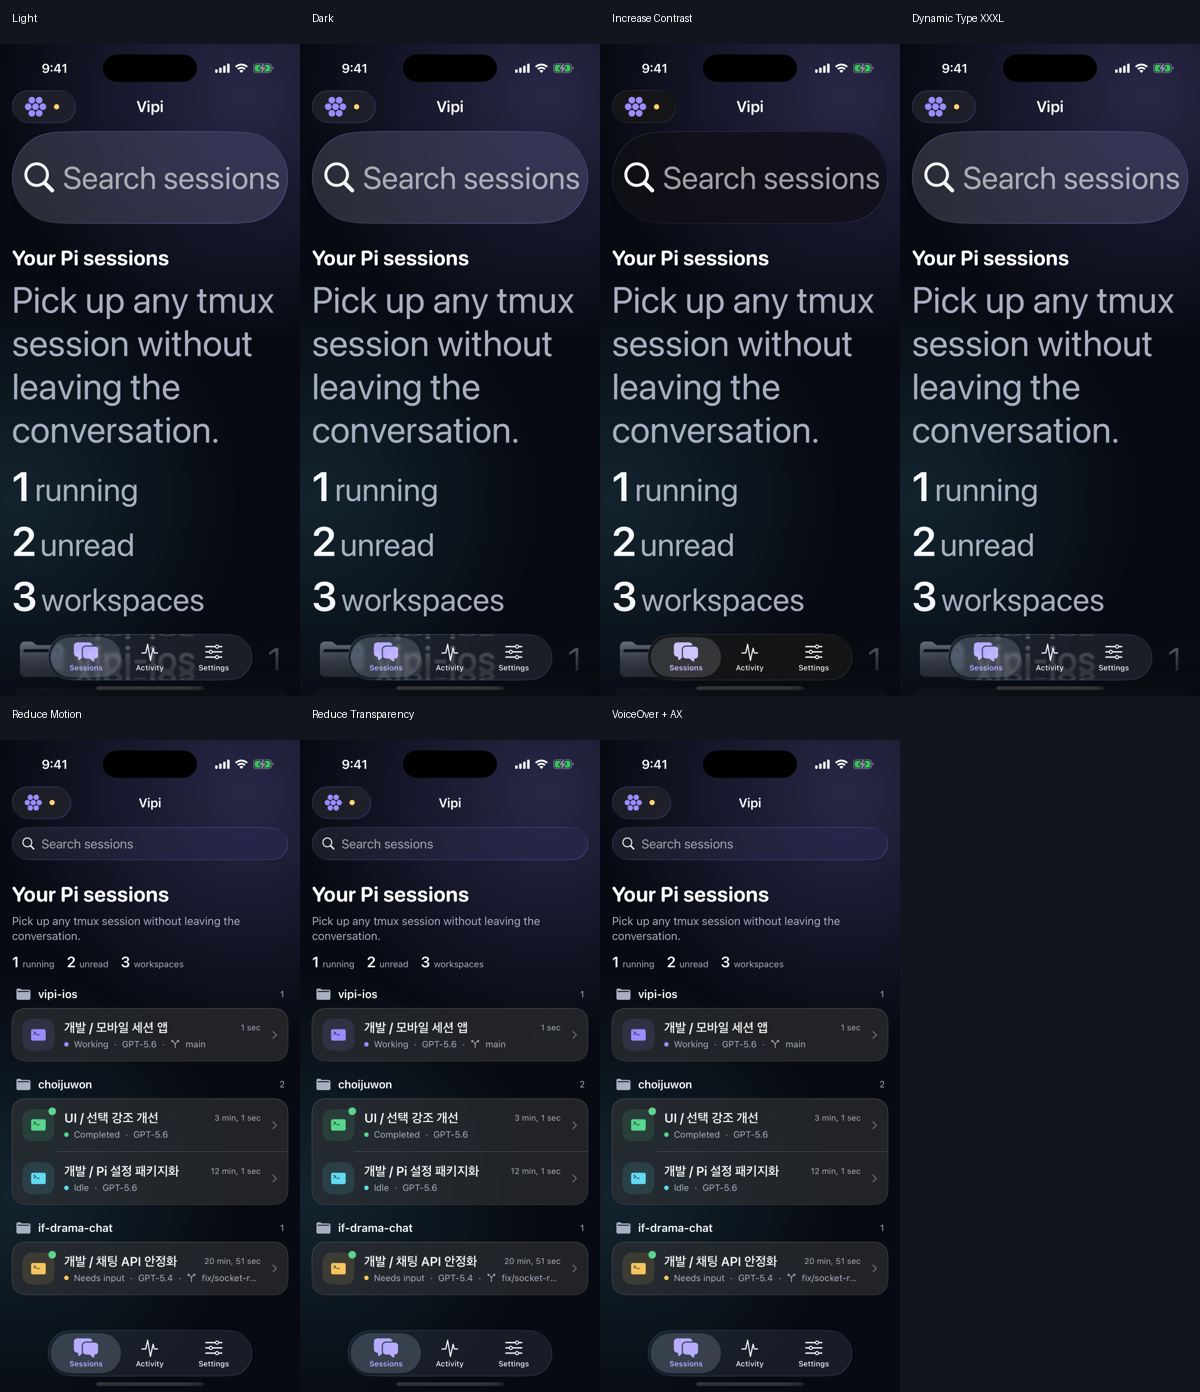
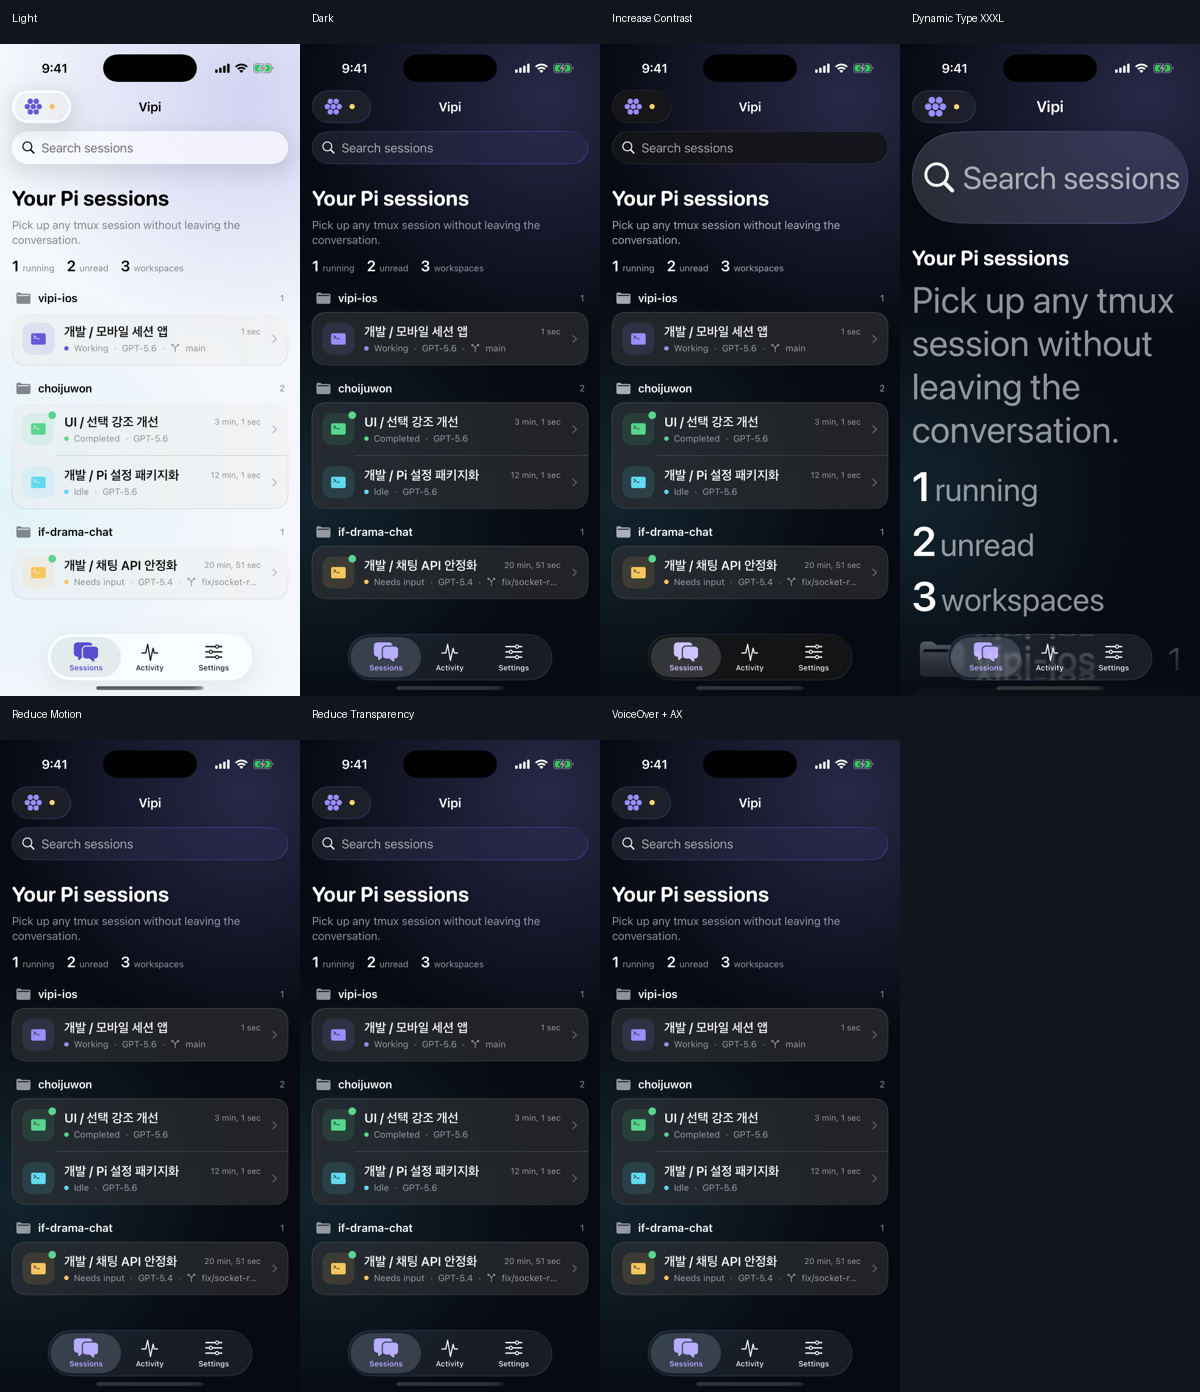
fix: support system appearance and audit accessibility semantics

diff --git a/VipiUITests/VipiUITests.swift b/VipiUITests/VipiUITests.swift
@@ -17,6 +17,9 @@ final class VipiUITests: XCTestCase {
     func testOpenSessionAndSendPrompt() {
         let session = app.buttons["session.mobile"]
         XCTAssertTrue(session.waitForExistence(timeout: 5))
+        XCTAssertEqual(session.label, "개발 / 모바일 세션 앱")
+        XCTAssertTrue((session.value as? String)?.contains("Working") == true)
+        XCTAssertTrue(session.isHittable)
         session.tap()
 
         let composer = app.textFields["chat.composer"]
@@ -54,13 +57,51 @@ final class VipiUITests: XCTestCase {
         abort.tap()
     }
 
+    func testVoiceOverSemanticsAndNavigation() {
+        let connection = app.otherElements["connection.status"].firstMatch
+        XCTAssertTrue(connection.waitForExistence(timeout: 5))
+        XCTAssertEqual(connection.label, "Connection")
+        XCTAssertFalse((connection.value as? String ?? "").isEmpty)
+
+        let session = app.buttons["session.mobile"]
+        XCTAssertTrue(scrollToHittable(session))
+        session.tap()
+        let transcript = app.scrollViews["chat.transcript"]
+        XCTAssertTrue(transcript.waitForExistence(timeout: 5))
+        let composer = app.textFields["chat.composer"]
+        XCTAssertEqual(composer.label, "Message Pi")
+        XCTAssertTrue(composer.isHittable)
+        let send = app.buttons["chat.send"]
+        XCTAssertEqual(send.label, "Send message")
+        XCTAssertFalse(send.isEnabled)
+        let tool = app.buttons.matching(NSPredicate(format: "label == %@", "Tool read")).firstMatch
+        for _ in 0..<8 where !tool.exists { transcript.swipeUp() }
+        XCTAssertTrue(tool.waitForExistence(timeout: 5))
+        XCTAssertTrue((tool.value as? String)?.contains("succeeded") == true)
+        XCTAssertTrue(app.buttons["chat.menu"].isHittable)
+    }
+
     func testPairingAndConnectionControlsAreAccessible() {
         app.tabBars.buttons["Settings"].tap()
         XCTAssertTrue(app.secureTextFields["settings.pairingPayload"].waitForExistence(timeout: 5))
         XCTAssertTrue(scrollToExistence(app.textFields["settings.host"]))
         XCTAssertTrue(scrollToExistence(app.secureTextFields["settings.token"]))
-        XCTAssertTrue(scrollToExistence(app.buttons["settings.connect"]))
-        XCTAssertTrue(scrollToExistence(app.buttons["settings.rotateToken"]))
+        let connect = app.buttons["settings.connect"]
+        XCTAssertTrue(scrollToExistence(connect))
+        XCTAssertEqual(connect.label, "Connect securely")
+        XCTAssertTrue(connect.isHittable)
+        let rotate = app.buttons["settings.rotateToken"]
+        XCTAssertTrue(scrollToExistence(rotate))
+        XCTAssertEqual(rotate.label, "Rotate device token")
+        XCTAssertFalse(rotate.isEnabled)
+    }
+
+    private func scrollToHittable(_ element: XCUIElement) -> Bool {
+        for _ in 0..<10 {
+            if element.isHittable { return true }
+            app.swipeUp()
+        }
+        return element.isHittable
     }
 
     private func scrollToExistence(_ element: XCUIElement) -> Bool {

diff --git a/Vipi/DesignSystem/VipiTheme.swift b/Vipi/DesignSystem/VipiTheme.swift
@@ -1,20 +1,46 @@
 import SwiftUI
+import UIKit
 
 enum VipiTheme {
-    static let canvas = Color(hex: 0x070A12)
-    static let surface = Color.white.opacity(0.055)
-    static let elevated = Color.white.opacity(0.08)
-    static let stroke = Color.white.opacity(0.12)
-    static let highlight = Color.white.opacity(0.22)
-    static let primary = Color(hex: 0xF7F8FC)
-    static let secondary = Color(hex: 0xA8AFC0)
-    static let accent = Color(hex: 0x9B8CFF)
+    static let canvas = adaptive(light: 0xF4F7FB, dark: 0x070A12)
+    static let surface = Color(uiColor: UIColor { traits in
+        traits.userInterfaceStyle == .dark ? UIColor.white.withAlphaComponent(0.055) : UIColor.black.withAlphaComponent(0.035)
+    })
+    static let elevated = Color(uiColor: UIColor { traits in
+        traits.userInterfaceStyle == .dark ? UIColor.white.withAlphaComponent(0.08) : UIColor.white.withAlphaComponent(0.72)
+    })
+    static let stroke = Color(uiColor: UIColor { traits in
+        traits.userInterfaceStyle == .dark ? UIColor.white.withAlphaComponent(0.12) : UIColor.black.withAlphaComponent(0.12)
+    })
+    static let highlight = Color(uiColor: UIColor { traits in
+        traits.userInterfaceStyle == .dark ? UIColor.white.withAlphaComponent(0.22) : UIColor.white.withAlphaComponent(0.9)
+    })
+    static let primary = Color.primary
+    static let secondary = Color.secondary
+    static let accent = adaptive(light: 0x6557D8, dark: 0x9B8CFF)
     static let cyan = Color(hex: 0x61D9F0)
     static let success = Color(hex: 0x58D68D)
     static let warning = Color(hex: 0xF7C65F)
     static let danger = Color(hex: 0xFF7272)
 
     static let cardRadius: CGFloat = 18
+
+    private static func adaptive(light: UInt, dark: UInt) -> Color {
+        Color(uiColor: UIColor { traits in
+            UIColor(hex: traits.userInterfaceStyle == .dark ? dark : light)
+        })
+    }
+}
+
+private extension UIColor {
+    convenience init(hex: UInt) {
+        self.init(
+            red: CGFloat((hex >> 16) & 0xff) / 255,
+            green: CGFloat((hex >> 8) & 0xff) / 255,
+            blue: CGFloat(hex & 0xff) / 255,
+            alpha: 1
+        )
+    }
 }
 
 extension Color {

diff --git a/Vipi/Features/Chat/ComposerView.swift b/Vipi/Features/Chat/ComposerView.swift
@@ -22,6 +22,7 @@ struct ComposerView: View {
             HStack(alignment: .bottom, spacing: 10) {
                 TextField("Message Pi…", text: $draft, axis: .vertical)
                     .accessibilityIdentifier("chat.composer")
+                    .accessibilityLabel("Message Pi")
                     .lineLimit(1...6)
                     .padding(.horizontal, 14).padding(.vertical, 11)
                     .vipiGlass(interactive: true, in: RoundedRectangle(cornerRadius: 20, style: .continuous))
@@ -37,6 +38,8 @@ struct ComposerView: View {
                 }
                 .disabled(draft.trimmingCharacters(in: .whitespacesAndNewlines).isEmpty)
                 .accessibilityIdentifier("chat.send")
+                .accessibilityLabel("Send message")
+                .accessibilityHint(phase == .working ? "Delivers using the selected queue or steer mode" : "Sends a prompt to Pi")
             }
         }
         .padding(.horizontal, 12).padding(.top, 10).padding(.bottom, 8)

diff --git a/Vipi/Components/StatusPill.swift b/Vipi/Components/StatusPill.swift
@@ -13,6 +13,9 @@ struct StatusPill: View {
         .padding(.horizontal, 10)
         .padding(.vertical, 6)
         .vipiGlass(tint: phase.color.opacity(0.18), in: Capsule())
+        .accessibilityElement(children: .ignore)
+        .accessibilityLabel("Session status")
+        .accessibilityValue(phase.label)
     }
 }
 
@@ -25,6 +28,10 @@ struct ConnectionCapsule: View {
             Text(label).font(.caption.weight(.medium))
         }
         .foregroundStyle(color)
+        .accessibilityElement(children: .ignore)
+        .accessibilityIdentifier("connection.status")
+        .accessibilityLabel("Connection")
+        .accessibilityValue(label)
     }
 
     private var label: String {

diff --git a/Vipi/Features/Sessions/SessionListView.swift b/Vipi/Features/Sessions/SessionListView.swift
@@ -88,6 +88,9 @@ struct SessionListView: View {
                     NavigationLink(value: session) { SessionRow(session: session) }
                         .buttonStyle(.plain)
                         .accessibilityIdentifier("session.\(session.id)")
+                        .accessibilityLabel(session.name)
+                        .accessibilityValue("\(session.phase.label), \(session.model)\(session.unread ? ", unread" : "")")
+                        .accessibilityHint("Opens the session transcript")
                     if index < group.sessions.count - 1 {
                         Divider().overlay(VipiTheme.stroke).padding(.leading, 58)
                     }

diff --git a/Vipi/Features/Chat/ChatView.swift b/Vipi/Features/Chat/ChatView.swift
@@ -171,6 +171,9 @@ private struct ToolCard: View {
             .overlay { RoundedRectangle(cornerRadius: 14).stroke(VipiTheme.stroke, lineWidth: 0.75) }
         }
         .buttonStyle(.plain)
+        .accessibilityLabel("Tool \(tool.name)")
+        .accessibilityValue("\(tool.state.rawValue), \(tool.summary)")
+        .accessibilityHint(expanded ? "Collapses tool details" : "Expands tool details")
     }
 
     private var icon: String { tool.state == .running ? "gearshape.2.fill" : tool.state == .failed ? "xmark.circle.fill" : "checkmark.circle.fill" }

diff --git a/Vipi/App/VipiApp.swift b/Vipi/App/VipiApp.swift
@@ -8,7 +8,6 @@ struct VipiApp: App {
         WindowGroup {
             RootView()
                 .environment(store)
-                .preferredColorScheme(.dark)
         }
     }
 }

diff --git a/docs/QA_ACCESSIBILITY.md b/docs/QA_ACCESSIBILITY.md
@@ -6,8 +6,8 @@ Validated on 2026-08-24 using the booted **Vipi iPhone, iOS 26.5** simulator and
 
 | Variant | Visual capture | Accessibility-identifier XCUITest |
 |---|---:|---:|
-| Light appearance | Pass | Pass |
-| Dark appearance | Pass | Pass |
+| Light appearance | Pass; average screenshot luminance 231.0 | Pass |
+| Dark appearance | Pass; average screenshot luminance 35.6 | Pass |
 | Increase Contrast | Pass | Pass |
 | Dynamic Type: accessibility XXXL | Pass after responsive metric layout fix | Pass with scroll-to-control checks |
 | Reduce Motion | Pass | Pass |
@@ -20,7 +20,9 @@ The reusable command is:
 ./scripts/run-accessibility-matrix.sh
 ```
 
-It uses `simctl ui` for appearance, contrast, and content size; simulator accessibility preferences for Reduce Motion, Reduce Transparency, and VoiceOver; captures each variant; and runs `testPairingAndConnectionControlsAreAccessible` against every configuration. It restores normal dark/large settings afterward.
+It uses `simctl ui` for appearance, contrast, and content size; simulator accessibility preferences for Reduce Motion, Reduce Transparency, and VoiceOver; captures each variant; and runs both `testPairingAndConnectionControlsAreAccessible` and `testVoiceOverSemanticsAndNavigation` against every configuration. It restores normal dark/large settings afterward. A pixel assertion requires the light capture to exceed the dark capture's average luminance by at least 35; the latest run measured a 195.4-point difference.
+
+The semantic test asserts VoiceOver-facing labels, values, enabled state/button traits (through typed accessibility queries), hints-backed controls, hit testing, transcript navigation, session status/unread value, connection value, composer/send semantics, and tool execution state. At accessibility-XXXL it scrolls both the session list and transcript, proving controls remain navigable rather than merely present somewhere in the hierarchy.
 
 The first accessibility-XXXL run exposed horizontally compressed session metrics. `SessionListView` now switches metrics to a vertical layout for accessibility content sizes. The matrix was rerun after that fix and passed.
 
